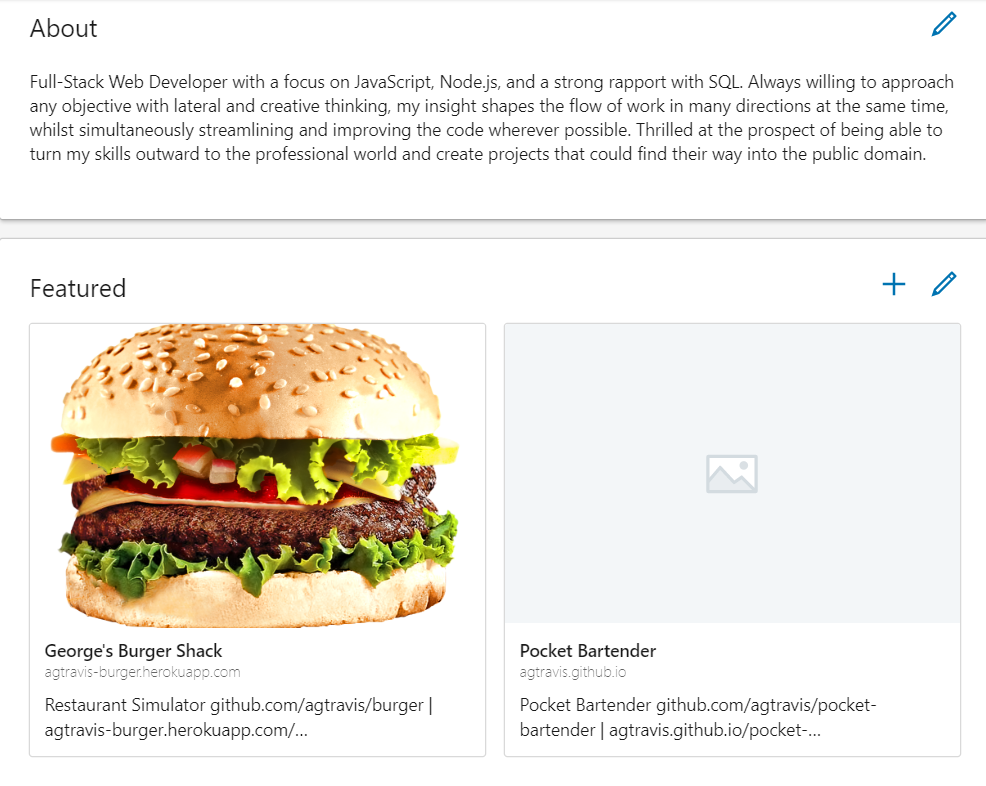
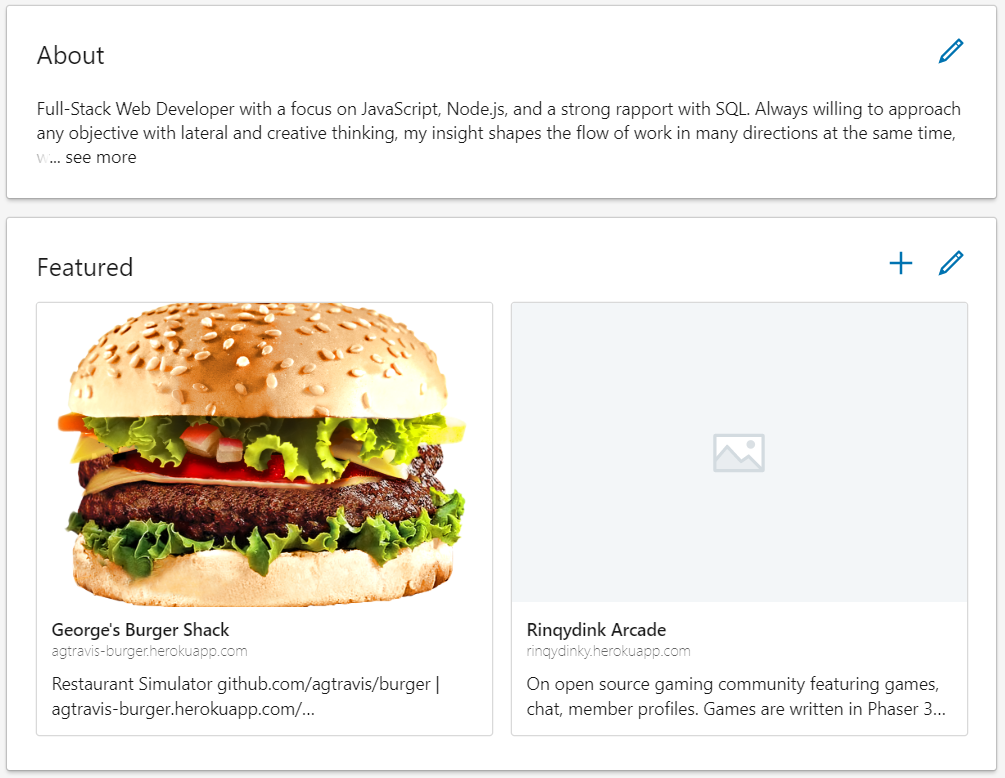
readme includes updated linkedin

diff --git a/readme.md b/readme.md
@@ -10,7 +10,8 @@
 
 At present my LinkedIn is set to private, so below are some screenshots (there is no employment history on purpose for now so it will reduce search capabilities):
 
-![Main](https://github.com/agtravis/agtravis.github.io/blob/master/assets/images/linkedin-main.PNG)
-![Education](https://github.com/agtravis/agtravis.github.io/blob/master/assets/images/linkedin-education.PNG)
-![Skills1](https://github.com/agtravis/agtravis.github.io/blob/master/assets/images/linkedin-skills1.PNG)
-![Skills2](https://github.com/agtravis/agtravis.github.io/blob/master/assets/images/linkedin-skills2.PNG)
+![Linkedin1](./assets/images/linkedin1.PNG)
+![Linkedin2](./assets/images/linkedin2.PNG)
+![Linkedin3](./assets/images/linkedin3.PNG)
+![Linkedin4](./assets/images/linkedin4.PNG)
+![Linkedin5](./assets/images/linkedin5.PNG)
